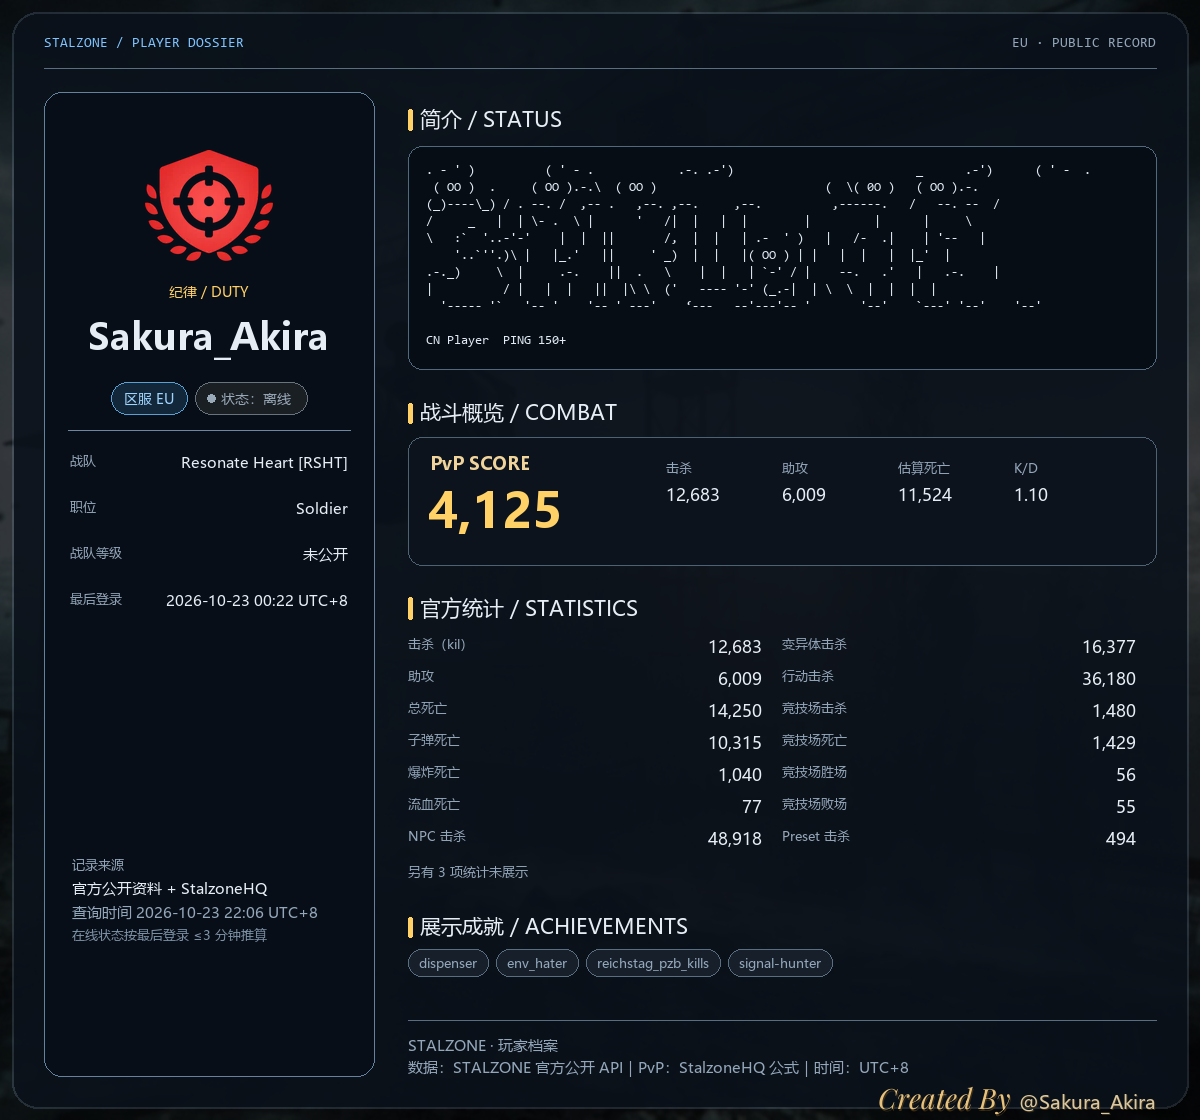
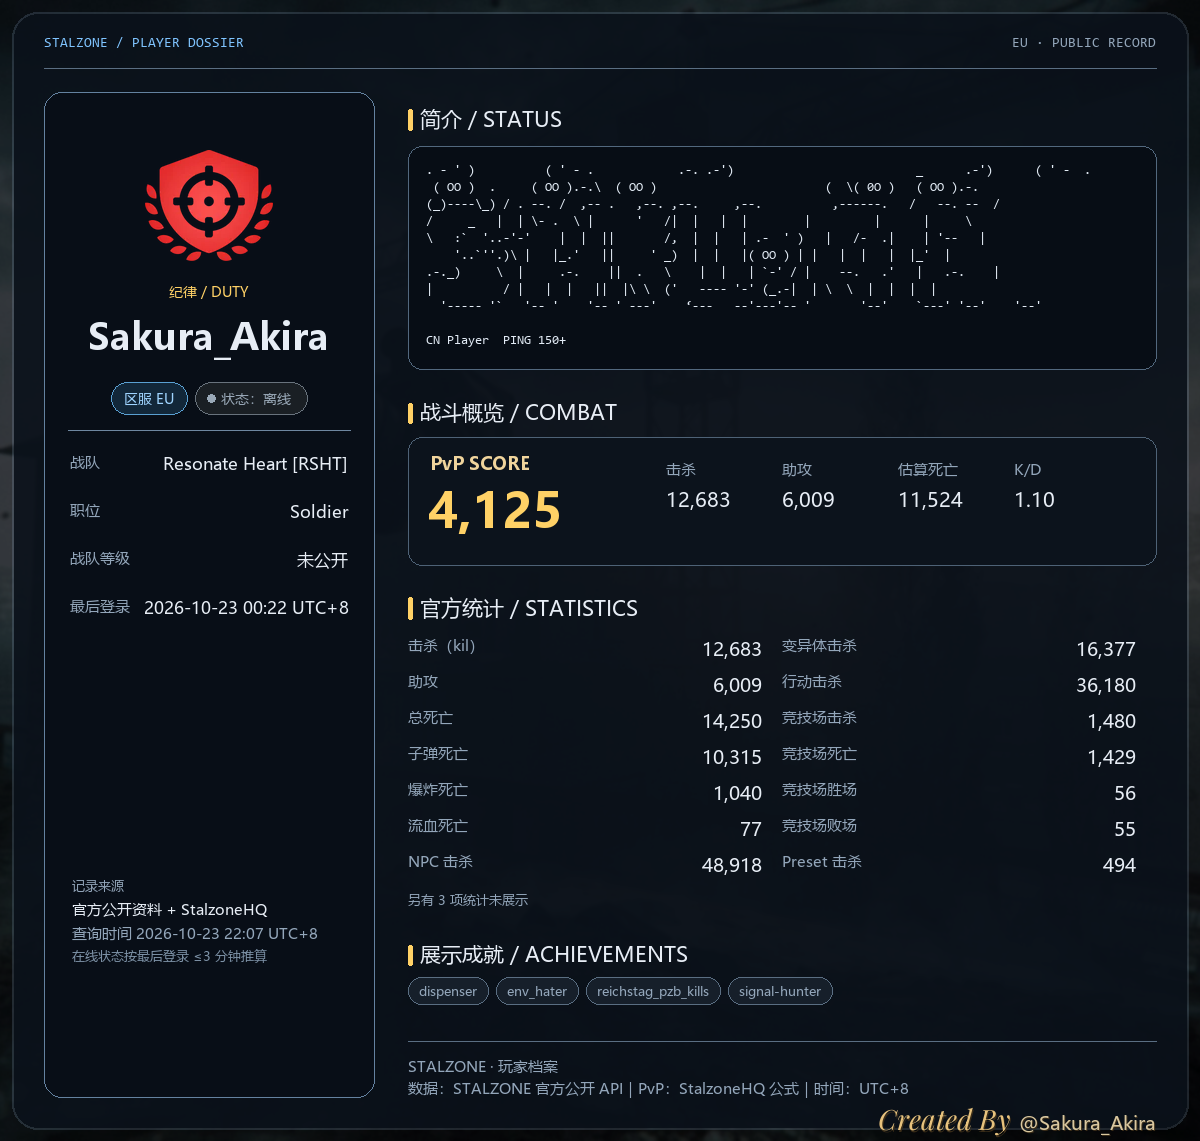
style: enlarge player statistics typography

diff --git a/image_renderer.py b/image_renderer.py
@@ -1633,6 +1633,12 @@ def render_profile_card(
         score_font = ImageFont.truetype(str(display_path), 54)
         hero_score_font = ImageFont.truetype(str(display_path), 48)
         pvp_label_font = ImageFont.truetype(str(display_path), 18)
+        meta_label_font = ImageFont.truetype(str(path), 15)
+        meta_value_font = ImageFont.truetype(str(path), 17)
+        combat_label_font = ImageFont.truetype(str(path), 15)
+        combat_value_font = ImageFont.truetype(str(path), 20)
+        stat_label_font = ImageFont.truetype(str(path), 15)
+        stat_value_font = ImageFont.truetype(str(path), 19)
         mono_font = ImageFont.truetype(str(mono_path or path), 14)
     except Exception:
         return None
@@ -1655,7 +1661,7 @@ def render_profile_card(
     if stat_rows and stat_rows[-1].startswith("另有"):
         stat_note = stat_rows.pop()
     per_col = max(1, (len(stat_rows) + 1) // 2)
-    stats_height = per_col * 32
+    stats_height = per_col * 36
     achievements = [str(x) for x in (view.get("achievements") or [])]
     hq = view.get("hq") if isinstance(view.get("hq"), dict) else None
     achievement_rows = 1
@@ -1784,13 +1790,13 @@ def render_profile_card(
     ]
     my = rail_top + 360
     for key, value in meta_rows:
-        draw.text((left_x + 26, my), key, font=label_font, fill=MUTED)
-        fitted = _fit_text(draw, value, small_font, left_w - 100)
+        draw.text((left_x + 26, my), key, font=meta_label_font, fill=MUTED)
+        fitted = _fit_text(draw, value, meta_value_font, left_w - 100)
         draw.text(
-            (left_x + left_w - 26 - int(draw.textlength(fitted, font=small_font)), my),
-            fitted, font=small_font, fill=TEXT,
+            (left_x + left_w - 26 - int(draw.textlength(fitted, font=meta_value_font)), my),
+            fitted, font=meta_value_font, fill=TEXT,
         )
-        my += 46
+        my += 48
 
     source_y = max(rail_top + 680, rail_bottom - 220)
     draw.text((left_x + 28, source_y), "记录来源", font=label_font, fill=MUTED)
@@ -1844,8 +1850,8 @@ def render_profile_card(
         ]
         for index, (key, value) in enumerate(values):
             mx = right_x + 258 + index * 116
-            draw.text((mx, panel_y + 22), key, font=label_font, fill=MUTED)
-            draw.text((mx, panel_y + 46), value, font=metric_font, fill=TEXT)
+            draw.text((mx, panel_y + 22), key, font=combat_label_font, fill=MUTED)
+            draw.text((mx, panel_y + 48), value, font=combat_value_font, fill=TEXT)
     else:
         draw.text((right_x + 22, panel_y + 42), "暂无 PvP 统计", font=body_font, fill=MUTED)
     ry = panel_y + 128 + 28
@@ -1863,12 +1869,12 @@ def render_profile_card(
         col = index // per_col
         row_index = index % per_col
         xx = right_x + col * col_w
-        yy = stats_y + row_index * 32
-        draw.text((xx, yy), _fit_text(draw, label_text, label_font, col_w - 90), font=label_font, fill=MUTED)
-        draw.text((xx + col_w - 20, yy), value, font=metric_font, fill=TEXT, anchor="ra")
+        yy = stats_y + row_index * 36
+        draw.text((xx, yy), _fit_text(draw, label_text, stat_label_font, col_w - 90), font=stat_label_font, fill=MUTED)
+        draw.text((xx + col_w - 20, yy), value, font=stat_value_font, fill=TEXT, anchor="ra")
     if stat_note:
-        draw.text((right_x, stats_y + per_col * 32 + 4), stat_note, font=label_font, fill=MUTED)
-    ry = stats_y + per_col * 32 + (24 if stat_note else 0) + 28
+        draw.text((right_x, stats_y + per_col * 36 + 4), stat_note, font=label_font, fill=MUTED)
+    ry = stats_y + per_col * 36 + (24 if stat_note else 0) + 28
 
     if achievements:
         _draw_section_heading(

diff --git a/api_client.py b/api_client.py
@@ -29,7 +29,7 @@ DEFAULT_MAX_RETRIES = 2
 DEFAULT_RETRY_BASE_DELAY = 0.5
 RETRY_STATUS_CODES = frozenset({429, 500, 502, 503, 504})
 VALID_REGIONS = frozenset({"ru", "eu", "na", "sea", "nea"})
-USER_AGENT = "astrbot-plugin-stalzone/1.0.18"
+USER_AGENT = "astrbot-plugin-stalzone/1.0.19"
 
 _ITEM_ID_RE = re.compile(r"^[^\x00-\x1f/\\]{1,128}$")
 

diff --git a/main.py b/main.py
@@ -178,7 +178,7 @@ UUID_RE = re.compile(
     r"^[0-9a-fA-F]{8}-[0-9a-fA-F]{4}-[0-9a-fA-F]{4}-[0-9a-fA-F]{4}-[0-9a-fA-F]{12}$"
 )
 ITEM_ID_RE = re.compile(r"^[A-Za-z0-9_-]{1,128}$")
-PLUGIN_VERSION = "1.0.18"
+PLUGIN_VERSION = "1.0.19"
 SZ_BARE_RE = r"(?i)^\s*(?:sz|stalzone)(?:@\S+)?\s+"
 
 

diff --git a/README.en.md b/README.en.md
@@ -7,7 +7,7 @@
 Auction · Emissions · Players · Clans · Items · Candidates · Season Pass
 
 ![AstrBot](https://img.shields.io/badge/AstrBot-plugin-5865F2?style=flat-square)
-![Version](https://img.shields.io/badge/version-1.0.18-22c55e?style=flat-square)
+![Version](https://img.shields.io/badge/version-1.0.19-22c55e?style=flat-square)
 ![Python](https://img.shields.io/badge/Python-3.10%2B-3776AB?style=flat-square)
 ![Platform](https://img.shields.io/badge/platform-QQ%20%2F%20OneBot-F97316?style=flat-square)
 ![API](https://img.shields.io/badge/data-Official%20STALZONE%20API-0EA5E9?style=flat-square)

diff --git a/README.md b/README.md
@@ -7,7 +7,7 @@
 拍卖 · 风暴 · 玩家 · 战队 · 物品 · 候选卡 · 通行证计算
 
 ![AstrBot](https://img.shields.io/badge/AstrBot-plugin-5865F2?style=flat-square)
-![Version](https://img.shields.io/badge/version-1.0.18-22c55e?style=flat-square)
+![Version](https://img.shields.io/badge/version-1.0.19-22c55e?style=flat-square)
 ![Python](https://img.shields.io/badge/Python-3.10%2B-3776AB?style=flat-square)
 ![Platform](https://img.shields.io/badge/platform-QQ%20%2F%20OneBot-F97316?style=flat-square)
 ![API](https://img.shields.io/badge/data-Official%20STALZONE%20API-0EA5E9?style=flat-square)

diff --git a/CHANGELOG.md b/CHANGELOG.md
@@ -3,6 +3,13 @@
 All notable changes to this project are documented here.
 The project follows [Semantic Versioning](https://semver.org/).
 
+## 1.0.19 - 2026-10-23
+
+### Changed
+
+- Enlarged player-card metadata labels/values (clan, rank, level, last login), combat metrics (kills/assists/deaths/KD) and official-stat labels/values for readability.
+- Increased stat row spacing to match the larger type.
+
 ## 1.0.18 - 2026-10-23
 
 ### Changed
